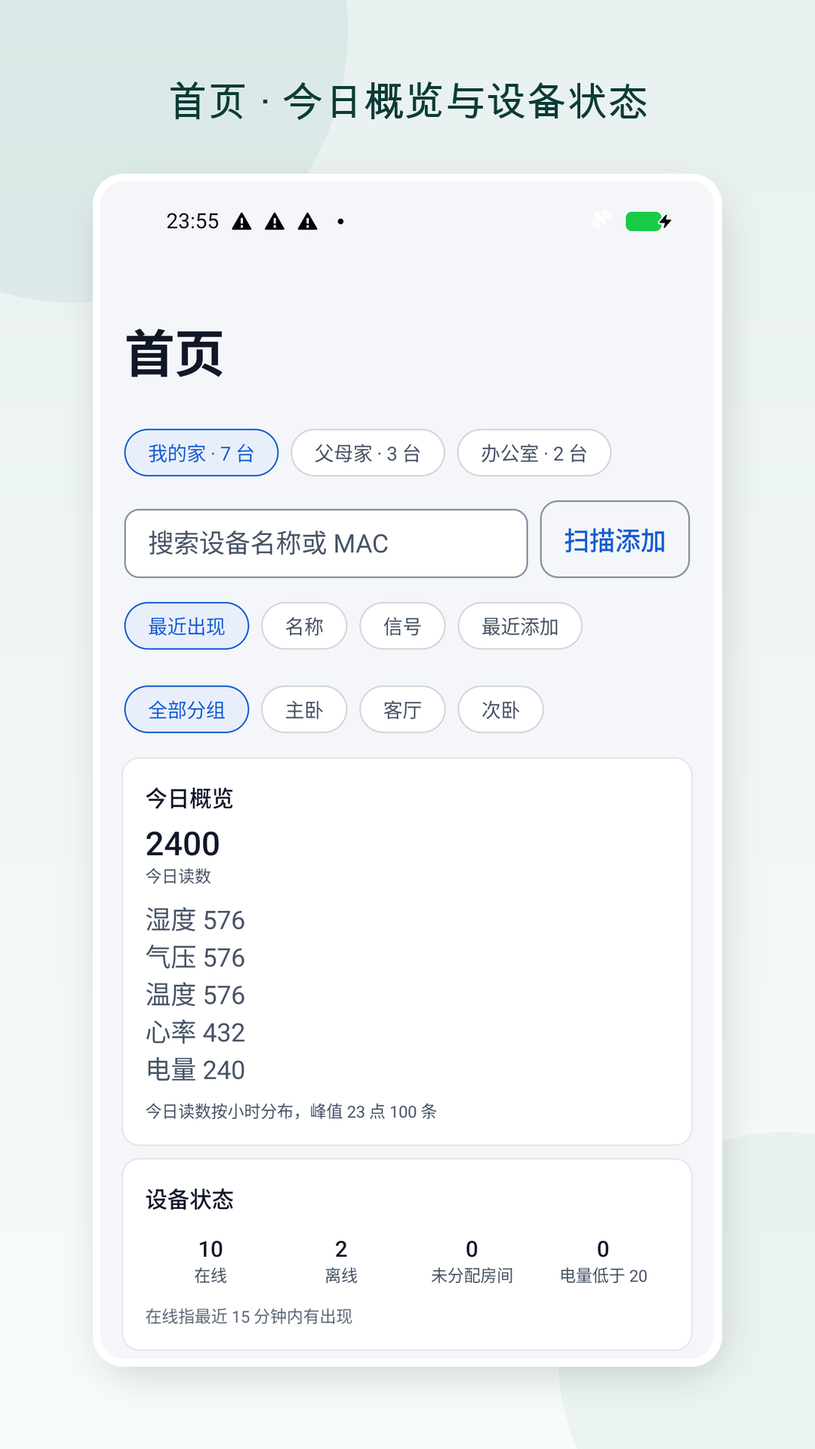
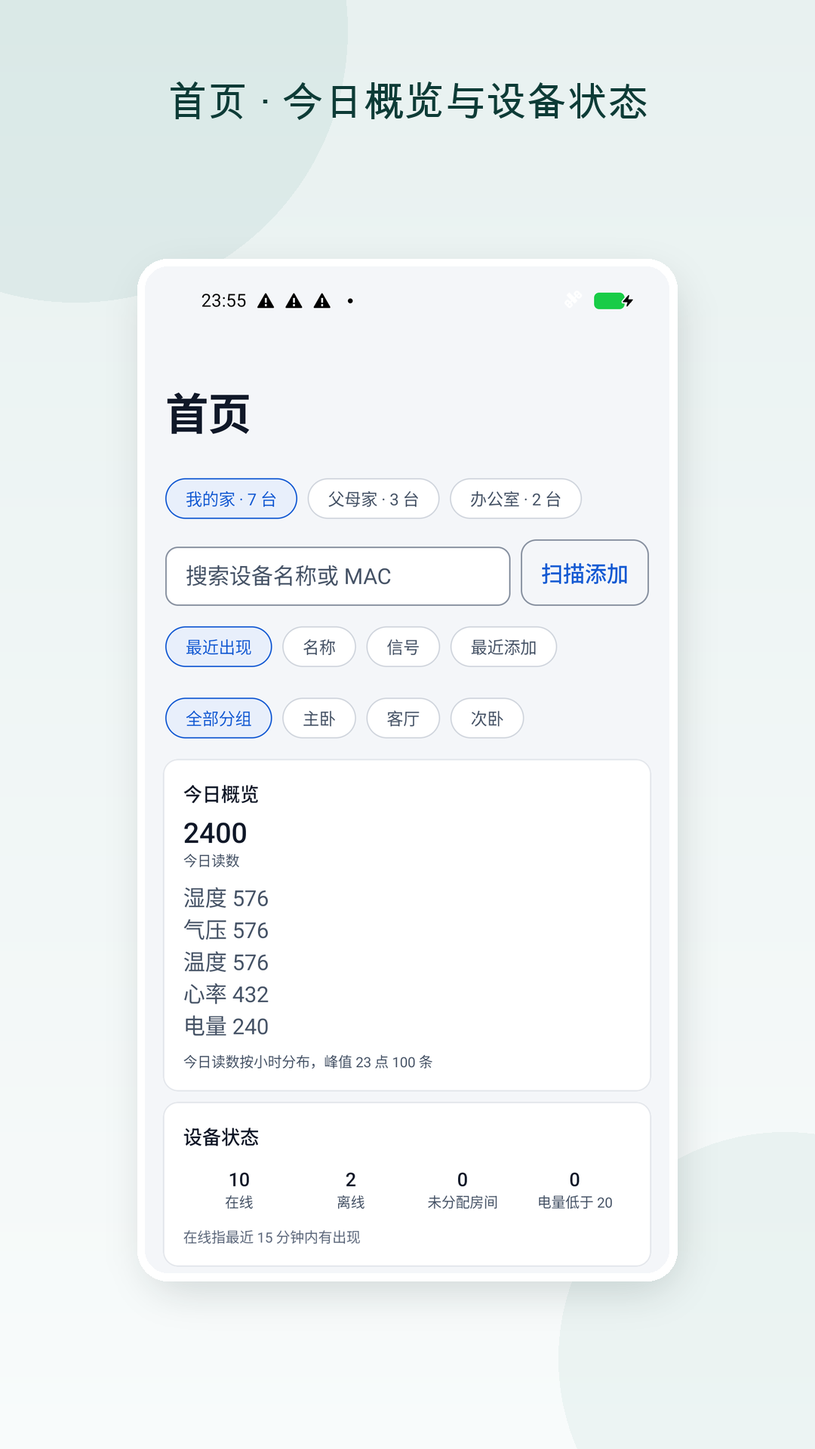
feat(store): 补齐 Data safety 申报并统一商店素材
- Data safety 按 Play 口径逐项申报健康信息、设备标识、读数、家庭/场景元数据、反馈正文、可选联系方式与反馈诊断上下文，并给出代码/后端证据
- 修正与代码不一致项：个人信息改为邮箱/手机号、补家庭/场景与反馈、后端保留期引用 PJGoIoT、仅本机数据明确不收集、推送令牌维持不收集
- 英文成员角色改为 Regular member，新增双语审计断言避免同构重复
- 六张商店截图统一设备框宽度 716px 与圆角 40/30
- 版本递增至 0.31.2（versionCode 42）

diff --git a/app/src/test/java/com/platojobs/pkotlinapp/ui/BilingualAuditTest.kt b/app/src/test/java/com/platojobs/pkotlinapp/ui/BilingualAuditTest.kt
@@ -4,6 +4,7 @@ import java.io.File
 import javax.xml.parsers.DocumentBuilderFactory
 import org.junit.Assert.assertEquals
 import org.junit.Assert.assertFalse
+import org.junit.Assert.assertNotEquals
 import org.junit.Assert.assertTrue
 import org.junit.Test
 import org.w3c.dom.Element
@@ -113,6 +114,23 @@ class BilingualAuditTest {
         val text = file.readText().lowercase()
         assertFalse("英文资源不得出现 pairing code", text.contains("pairing code"))
         assertTrue("英文资源缺少 Transfer Code", file.readText().contains("Transfer Code"))
+    }
+
+    @Test
+    fun `家庭普通成员文案不与序号同构重复`() {
+        val (zhStrings, _) = readStrings(File(resDir, "values/strings.xml"), skipUntranslatable = true)
+        val (enStrings, _) = readStrings(File(resDir, "values-en/strings.xml"), skipUntranslatable = false)
+
+        assertEquals("普通成员", zhStrings.getValue("household_role_member").text)
+        assertEquals("Regular member", enStrings.getValue("household_role_member").text)
+
+        // 成员行渲染为「序号 · 角色」；去掉 %1$d 后若与角色词相同，会出现「Member 2 · Member」同构重复。
+        listOf("values/strings.xml", "values-en/strings.xml").forEach { path ->
+            val strings = if (path.startsWith("values-en")) enStrings else zhStrings
+            val ordinal = strings.getValue("household_member_ordinal").text.replace("%1\$d", "").trim()
+            val role = strings.getValue("household_role_member").text
+            assertNotEquals("$path 的成员序号与角色重复：$role", role, ordinal)
+        }
     }
 
     @Test

diff --git a/scripts/make-store-screenshots.py b/scripts/make-store-screenshots.py
@@ -21,6 +21,11 @@ OUT = SRC / "play"
 W, H = 1080, 1920
 CAPTION_FONT = "/System/Library/Fonts/Supplemental/Arial Unicode.ttf"
 
+# 六张图的设备框统一宽度：以 1080 宽源截图缩放到 695px，外框再加 10px 白边；
+# 圆角固定为外框 40px / 屏幕 30px，避免 03/04/05 裁短后与 02/06 宽度不一致。
+FRAME_WIDTH = 695
+FRAME_MAX_HEIGHT = 1560
+
 # (源截图, 输出文件名, 文案, 底部裁剪高度)。文案只写该截图里实际可见的元素：
 # home 只有今日概览与设备状态（无设备卡片）；device_detail 只有曲线与汇总（无阈值告警）；
 # products 只有设备类型目录（无 GATT 服务表）；profile_household 只有家庭与成员行（无房间行）。
@@ -72,7 +77,9 @@ def compose(src: Path, caption: str, crop_bottom=None) -> Image.Image:
     shot = Image.open(src).convert("RGB")
     if crop_bottom is not None:
         shot = shot.crop((0, 0, shot.width, crop_bottom))
-    scale = min(1320 / shot.width, 1560 / shot.height)
+    scale = FRAME_WIDTH / shot.width
+    if round(shot.height * scale) > FRAME_MAX_HEIGHT:
+        scale = FRAME_MAX_HEIGHT / shot.height
     size = (round(shot.width * scale), round(shot.height * scale))
     shot = shot.resize(size, Image.LANCZOS)
 

diff --git a/docs/data-safety.md b/docs/data-safety.md
@@ -1,71 +1,116 @@
-# Google Play Data safety 对照（v0.30.0）
+# Google Play Data safety 对照（v0.31.2）
 
-按 Play Console「Data safety」表单逐项对照本项目**实际实现**。每一行都给出代码/接口证据；未实现的能力不申报。
+按 Play Console「Data safety」表单逐项对照本项目**实际实现**。每一行都给出客户端与服务端代码证据；
+未实现的能力不申报，实际不存在的数据类型也不申报。
 
-## 1. 数据收集与共享总表
+> **口径**：Play 的「收集」指数据离开用户设备。只写在本机 Room / SharedPreferences、从未上传的数据
+> 不算收集，统一列在 §1.2。服务端为本项目自建后端（`../PJGoIoT`），不属于第三方接收方；
+> 同一家庭的成员通过该后端读取共享设备与场景，属于应用功能内的用户间共享，不是向第三方共享。
 
-| Play 数据类别 | 具体数据 | 是否收集 | 是否共享给第三方 | 用途 | 是否可选 | 传输加密 | 可删除 | 证据 |
-| --- | --- | --- | --- | --- | --- | --- | --- | --- |
-| Health and fitness → Health info | 心率读数（仅当设备上报 `0x2A37`） | 是 | 否 | 应用功能（展示、历史曲线、同步） | 设备支持才产生 | 是（生产 HTTPS） | 是（注销/清数据） | `data/local/Entities.kt`、`domain/reading/ReadingModels.kt`、`data/remote/SyncApi.kt` |
-| Device or other IDs | 蓝牙 MAC、广播名、安装 UUID（`clientId`）、匿名 `userId` | 是 | 否 | 应用功能（设备管理、账号同步、鉴权） | 同步功能需要；纯本地模式可不用网络 | 是 | 是 | `SyncApi.kt`、`SyncPrefs.kt`、`RemoteSyncDataSource.kt` |
-| App activity → Other actions（映射说明见 §3） | BLE 传感器读数（温度/湿度/电量/CO2/气压/其他）、数值、单位、记录时间戳、RSSI 扫描记录 | 是 | 否 | 应用功能（实时读数、历史曲线、汇总、规则判断、同步） | 设备连接后才产生 | 是 | 是 | `Entities.kt`、`ReadingRepositoryImpl.kt`、`SyncApi.kt` |
-| App info and performance → Crash logs / Diagnostics | 无 | 否 | 否 | — | — | — | — | 无 Crashlytics/Sentry/Firebase；错误仅 `Log.w/i` 与 `SyncPrefs.lastError` |
-| Location → Approximate/Precise location | 无 | 否 | 否 | — | — | — | — | 无 `LocationManager`/FusedLocation；`ACCESS_FINE_LOCATION` 仅 `maxSdkVersion=30` 用于 BLE 扫描限制 |
-| Personal info | 无邮箱、手机号、姓名、密码 | 否 | 否 | — | — | — | — | 匿名 `POST /auth/anonymous`，无登录表单 |
-| Financial info | 无 | 否 | 否 | — | — | — | — | 市场页无购物车/订单/支付 |
-| Messages / Contacts / Calendar / Photos / Videos / Audio / Files / Web browsing | 无 | 否 | 否 | — | — | — | — | Manifest 无对应权限；无相关 API 调用 |
-| Advertising ID | 无 | 否 | 否 | — | — | — | — | 依赖列表无广告 SDK；无 `AdvertisingIdClient` |
-| Push notification token | 推送令牌（Room v22 预留 `push_devices`） | 否（本版本未接入 FCM，不产生 token） | 否 | — | — | — | — | `data/push/UnavailablePushTokenProvider.kt` |
+## 1. 数据收集与共享
 
-**共享结论**：数据只发送到本项目自建后端，用于匿名账号同步与恢复；无第三方广告、分析、推送或社交接收方。用户主动导出并分享文件时，接收方由用户在系统分享面板中选择，属于用户主动行为。
+### 1.1 已收集的数据类型
 
-## 2. 安全实践
+| Play 类别 | 具体字段 | 本地表 | 上报接口 | 收集 | 共享 | 传输加密 | 可要求删除 | 用途 | 是否可选 | 代码证据 |
+| --- | --- | --- | --- | --- | --- | --- | --- | --- | --- | --- |
+| 健康与健身 → 健康信息 | 心率指标值、单位、记录时间戳（`metric = heart_rate`） | `readings` | `POST /sync/push`（`readings`） | 是（设备上报 `0x2A37` 且启用同步） | 否 | 是（生产 HTTPS） | 是（注销账号；服务端 90 天清理） | 应用功能 | 设备支持才产生；不联网可只留本机 | `domain/reading/ReadingModels.kt`、`data/sync/RemoteSyncDataSource.kt` |
+| 设备或其他 ID | 蓝牙 MAC、规范化 `externalId`、广播名 `advertisedName`、安装 UUID `clientId`、匿名 `userId`、匹配到的 `deviceType`（型号标识） | `devices`、`SyncPrefs` | `POST /sync/push`（`devices`）、`POST /auth/anonymous` | 是（联网同步时） | 否 | 是 | 是（注销账号删除 `user_devices`/`tokens`/`users`，本机清表） | 应用功能（设备管理、匿名账号同步、鉴权） | 同步需要匿名账号；不联网可纯本地使用 | `data/remote/SyncApi.kt`（`PushDeviceDto`）、`RemoteSyncDataSource.toPushDto()`、`data/sync/SyncPrefs.kt` |
+| 应用活动 → 应用内其他操作（读数与扫描信号） | 温度/湿度/电量/CO2/气压/其他指标值、单位、记录时间戳、RSSI、扫描记录时间 | `readings`、`devices.lastRssi/lastSeenTimestamp` | `POST /sync/push`（`readings`、`scanRecords`） | 是 | 否 | 是 | 是（注销账号；服务端读数 90 天清理，本机 synced 记录 7 天清理） | 应用功能（实时展示、历史曲线、规则判断、同步） | 连接设备后才产生 | `data/remote/SyncApi.kt`（`PushReadingDto`）、`domain/reading/ReadingModels.kt` |
+| 应用活动 → 应用内其他操作（家庭与场景元数据） | 家庭名称、成员关系与角色、房间名称/排序、设备别名/分组/房间归属、场景名称/启用状态/冷却秒数/触发条件/动作列表（含目标设备 MAC、静音时长、通知文案） | `households`、`rooms`、`devices`、`scenes`、`scene_actions` | `GET/POST/PATCH/DELETE /households…`、`/households/{id}/members`、`/rooms`、`PATCH /my/devices/{platform}/{externalId}`、`/scenes` | 是（使用家庭/场景并联网时） | 否（同一家庭成员可读取共享数据，属应用功能内共享） | 是 | 是（删除家庭/场景、退出家庭、注销账号；家庭所有者需先转让或移除成员才能注销） | 应用功能 | 不创建家庭/场景则不产生 | `data/household/HouseholdRepository.kt`、`data/scene/RemoteSceneDataSource.kt`、`data/remote/SyncApi.kt` |
+| 用户内容 → 其他用户生成内容 | 反馈类型 `kind`、反馈正文 `body`、提交时间与处理状态 | `feedback_drafts`（本地草稿） | `POST /feedback` | 是（用户主动提交） | 否 | 是 | 是（注销账号；列表/详情接口不返回 contact/diagnostics） | 开发者通讯（处理用户反馈） | 用户主动提交才产生 | `data/feedback/RemoteFeedbackDataSource.kt`、`domain/feedback/FeedbackModels.kt`、`data/remote/SyncApi.kt`（`FeedbackCreateRequest`） |
+| 个人信息 → 电子邮件地址 / 电话号码 | 可选联系方式 `contact`（界面明确提示「邮箱或手机号」） | `feedback_drafts.contact` | `POST /feedback`（`contact`） | 是（仅用户填写时） | 否 | 是 | 是（注销账号；反馈列表/详情不回传该字段） | 开发者通讯（进一步沟通） | 选填 | `res/values/strings.xml`（`feedback_contact_hint`）、`RemoteFeedbackDataSource.submit()` |
+| 应用信息与性能 → 诊断信息 | 反馈上下文 `platform`、`appVersion`、`buildType`、`osVersion`、`deviceModel` | 不落库，随请求即时生成 | `POST /feedback`（`context`） | 是（仅提交反馈时） | 否 | 是 | 是（注销账号） | 开发者通讯（定位反馈问题） | 随反馈提交 | `data/remote/SyncApi.kt`（`FeedbackContextDto`）、`domain/feedback/FeedbackModels.kt`（`FeedbackContext`） |
+
+**共享结论**：不向第三方出售或共享数据。同步与反馈只发送到本项目自建后端（`../PJGoIoT`）；
+无广告、分析、第三方推送或社交 SDK。用户主动导出并分享文件时，接收方由用户在系统分享面板中选择，
+属于用户主动行为，不在本表申报范围内。
+
+### 1.2 未收集的数据类型
+
+| Play 类别 | 数据/字段 | 是否收集 | 依据 |
+| --- | --- | --- | --- |
+| 设备或其他 ID → 推送通知令牌 | 平台、token、appVersion、deviceModel | **否**（本版本不产生 token、不调用 `POST /push/devices`） | `di/AppContainer.createPushTokenProvider()` 固定返回 `UnavailablePushTokenProvider`；`PushRegistrationRepository` 在 `NotConfigured` 时只写本地 `push_devices` 的 `unconfigured` 行（`token = ""`），不上报。字段与接口为未来接入保留 |
+| 位置 | 精确/粗略位置、经纬度 | 否 | 无定位 API 调用；`ACCESS_FINE_LOCATION` 仅 `maxSdkVersion=30` 满足 BLE 扫描限制，`BLUETOOTH_SCAN` 声明 `neverForLocation` |
+| 个人信息（除可选联系方式） | 姓名、地址、账号密码、生日等 | 否 | 仅匿名 `POST /auth/anonymous`，无登录表单 |
+| 财务信息 | 支付、订单、订阅 | 否 | 市场页无购物车/订单/支付 |
+| 消息、通讯录、日历、照片/视频、音频、文件、网页浏览 | — | 否 | Manifest 无对应权限；无相关 API 调用 |
+| 广告标识符 | Advertising ID | 否 | 依赖列表无广告 SDK；无 `AdvertisingIdClient` |
+| 应用信息与性能 → 崩溃日志 | Crash logs | 否 | 无 Crashlytics/Sentry/Firebase；错误只写本机 Logcat 与 `SyncPrefs.lastError` |
+| —（仅本机，不离开设备） | `scan_logs` 扫描明细（名称/MAC/RSSI/时间）、`rules` 自动化规则、`rule_events` 规则触发记录、`scene_runs` 场景执行记录、`device_type_catalog` 目录缓存、`readings.rawSnapshot`、`lastError`/Logcat | 否 | 上述表只在本机 Room/SharedPreferences 使用；同步 payload 中 `PushDeviceDto.rules` 恒为空映射，场景规则只经 `/scenes` 上传，读数只含 `id/platform/externalId/metric/value/unit/recordedAt` |
+
+## 2. 保留期与删除路径
+
+| 数据 | 本地存储 | 服务端存储 | 保留期 | 删除路径 | 依据 |
+| --- | --- | --- | --- | --- | --- |
+| 设备唯一键与元数据 | `devices`（主键 `mac`，另有 `externalId`） | `user_devices` | 直到用户移除设备、注销账号或卸载应用；服务端无定时 TTL | 应用内移除设备；注销账号删除 `user_devices` 并本机 `clearAllTables()` | `Entities.kt`、`AccountService.deleteAccount()`、`../PJGoIoT/internal/store/postgres/account.go` |
+| 读数 | `readings` | `readings` | 本机：已同步读数 7 天，未同步读数保留到同步成功；服务端：默认 90 天 | 本机定时清理 + 注销账号；服务端 `cmd/cleanup -retention-days 90` + 注销账号 | `Reading.RETENTION_DAYS = 7`、`Daos.deleteOlderThan`、`../PJGoIoT/cmd/cleanup/main.go` |
+| 家庭 / 成员关系 / 房间 / 设备归属 | `households`、`rooms`、`devices.roomId` | `households`、`household_members`、`household_rooms` | 直到删除家庭、退出家庭、移除成员或注销账号；服务端无定时 TTL | 家庭删除/退出接口；注销账号。**所有者**的家庭还有其他成员时必须先转让所有权或移除成员，否则注销被拒绝 | `HouseholdRepository.kt`、`../PJGoIoT/internal/store/postgres/account.go` |
+| 场景规则与动作 | `scenes`、`scene_actions` | `scenes`（`trigger`/`actions` 为 JSONB） | 直到删除场景或注销账号；服务端无定时 TTL | `DELETE /scenes/{sceneId}`；注销账号删除 `scenes` | `data/local/Entities.kt`、`../PJGoIoT/db/migrations/000017_scenes.up.sql`、`account.go` |
+| 反馈正文与可选联系方式 | `feedback_drafts` | `feedback`、`feedback_status_events` | 直到注销账号；服务端无定时 TTL（关闭反馈只改状态，不删除正文） | 注销账号按 `user_id` 删除反馈与状态事件 | `../PJGoIoT/db/migrations/000013_feedback.up.sql`、`account.go` |
+| 反馈诊断上下文 | 不落库 | `feedback`（`platform/app_version/build_type/os_version/device_model`） | 同上 | 同上 | `000013_feedback.up.sql`、`account.go` |
+| 推送令牌（未产生） | `push_devices`（仅 `unconfigured` 状态，`token = ""`） | `push_devices`（本版本不会写入行） | 若未来接入：服务端 inactive 设备默认 30 天清理、推送投递记录 7 天 | 注销时 `DELETE /push/devices/{deviceId}`；无 token 时无实际调用 | `../PJGoIoT/cmd/cleanup/main.go`（`PUSH_DEVICE_RETENTION_DAYS=30`、`PUSH_DELIVERY_RETENTION_DAYS=7`） |
+| 同步变更日志 / 幂等键 | — | `change_log` / `idempotency_keys` | 默认 90 天 / 7 天 | `cmd/cleanup` | `../PJGoIoT/cmd/cleanup/main.go` |
+
+**账号删除的完整动作**：应用内「我的 → 注销账号」先请求删除令牌，再调用 `DELETE /api/v1/me`；
+服务端在单个事务内删除反馈、设备、读数、场景、家庭房间/成员/家庭、令牌与用户行，
+本地清 token、游标、同步状态并执行 `database.clearAllTables()`（`AccountService.deleteAccount()`、`AppContainer.wipeLocalData`）。
+
+## 3. 安全实践
 
 | 表单问题 | 回答 | 证据/说明 |
 | --- | --- | --- |
 | 数据在传输中是否加密？ | 是（生产环境） | Release Manifest 未开启 `usesCleartextTraffic`，`targetSdk 36` 默认禁止明文；需通过 `apiBaseUrl` 注入 HTTPS 地址。Debug 仅本地联调允许明文（`app/src/debug/AndroidManifest.xml`）。 |
-| 是否提供删除数据的方式？ | 是 | 应用内「我的 → 注销账号」调用 `DELETE /api/v1/me`，成功后清 token、游标、同步状态与全部 Room 表；设备移除与清空扫描日志也可删除部分数据。 |
+| 是否提供删除数据的方式？ | 是 | 应用内注销账号（服务端 + 本机全量删除）；另可移除设备、删除场景、退出家庭、清空扫描日志。家庭所有者在有其他成员时需先转让/移除成员。 |
 | 是否已独立安全审查？ | 否 | 项目未做第三方安全审计。 |
-| 是否遵循 Families Policy？ | 不适用/否 | 不专门面向儿童，无 UGC、社交、广告或交易。 |
+| 是否遵循 Families Policy？ | 不适用/否 | 不专门面向儿童；无广告、支付或公开社交。 |
 | 是否包含广告？ | 否 | 无广告 SDK、无广告位、无广告 ID。 |
 | 是否包含应用内购买？ | 否 | 无内购、订阅、购物车、订单或支付。 |
-
-## 3. 类别映射说明与已知边界
-
-1. **传感器读数归类**：Play 表单没有独立的「BLE 传感器读数」类别。温度/湿度/电量/CO2/气压属于设备产生的应用内数据，本文件按最接近的 **App activity → Other actions** 申报；心率单独按 **Health and fitness → Health info** 申报。实际填写时如 Play Console 提供更贴切的类别，以控制台选项为准。
-2. **MAC 地址**：BLE 设备 MAC 属于设备标识符，按 **Device or other IDs** 申报；`BLUETOOTH_SCAN` 已声明 `neverForLocation`，不用于推断位置。
-3. **匿名账号 ID**：安装 UUID 与匿名 `userId` 用于同步归属与鉴权；token 存于 `EncryptedSharedPreferences`（Keystore），不写入日志。
-4. **服务端 90 天保留**：属于后端契约（README「数据保留」与同步文档），客户端无法强制执行；本仓库无后端代码，上架前需由后端确认。
-5. **未同步读数**：本机清理只删除 `syncState = synced` 且超过 7 天的读数；未同步读数会保留到同步成功，属于防止数据丢失的实现细节，隐私政策已如实说明。
-6. **位置数据**：应用不调用定位 API，不读取经纬度，不上传位置；Android 11 及以下的 `ACCESS_FINE_LOCATION` 仅用于满足系统 BLE 扫描限制。
-7. **崩溃数据**：无崩溃上报 SDK；`lastError` 与 Logcat 仅在本机，不上传，因此 Data safety 的 Crash logs / Diagnostics 填「不收集」。
-8. **推送令牌**：Room v22 新增本机 `push_devices` 表并接入注册流程，但工程没有 `google-services.json`，默认 `UnavailablePushTokenProvider` 始终返回「未配置」、不产生 token，也不会向服务端注册。只有未来接入 FCM 并拿到真实 token 后才可能上报推送令牌；当前版本 Data safety 填「不收集」。
 
 ## 4. 表单填写速查
 
 - **Does your app collect or share any of the required user data types?** 是。
 - **Is all of the user data collected by your app encrypted in transit?** 是（生产 HTTPS）。
-- **Do you provide a way for users to request that their data is deleted?** 是（应用内注销账号；另可移除设备/清空日志）。
-- **Data types**：Health info（心率）、Device or other IDs（MAC/安装 UUID/匿名账号 ID）、App activity → Other actions（传感器读数与 RSSI 记录）。
-- **Data not collected**：位置、个人身份信息、财务信息、消息、通讯录、日历、照片/视频、音频、文件、网页浏览、广告 ID、崩溃日志、诊断数据、推送令牌（未接入 FCM）。
+- **Do you provide a way for users to request that their data is deleted?** 是（应用内注销账号）。
+- **Data types（收集）**：
+  - 健康与健身 → 健康信息（心率）
+  - 设备或其他 ID（蓝牙 MAC/广播名、安装 UUID、匿名账号 ID、匹配到的 `deviceType` 型号标识）
+  - 应用活动 → 应用内其他操作（传感器读数与 RSSI、家庭/成员/房间/设备别名分组、场景规则与动作）
+  - 用户内容 → 其他用户生成内容（反馈正文）
+  - 个人信息 → 电子邮件地址 / 电话号码（反馈选填联系方式）
+  - 应用信息与性能 → 诊断信息（反馈上下文 appVersion/buildType/osVersion/deviceModel）
+- **Data not collected**：位置、姓名/地址/密码、财务信息、消息、通讯录、日历、照片/视频、音频、文件、网页浏览、广告 ID、崩溃日志、推送令牌（本版本未接入 FCM）。
 - **Data shared with third parties**：无。
-- **Data collection optional**：同步需要匿名账号；不联网时应用以纯本地模式运行（设备与读数仍可在本机查看）。
+- **Data collection optional**：同步需要匿名账号；不联网时以纯本地模式运行（设备与读数仍可在本机查看）；反馈与联系方式由用户主动提交。
+- **Purposes**：应用功能（同步与展示）、开发者通讯（反馈）。本应用无分析 SDK，不申报「分析」用途。
 - **Ads / IAP**：均无。
 
-## 5. 代码证据索引
+## 5. 申报与代码核对记录（本轮修正）
+
+| 旧申报/旧文档 | 代码事实 | 处理 |
+| --- | --- | --- |
+| `store-listing.md` §5 写「仅健康信息、设备标识与传感器读数」 | 家庭/成员/房间/场景/设备别名与分组均经 `/households…`、`/scenes` 上传；反馈正文、联系方式与诊断上下文经 `/feedback` 上传 | 已补齐三类数据，见 §1.1 |
+| 「个人信息：无」 | 反馈联系方式提示为「邮箱或手机号」，`contact` 随 `POST /feedback` 上传 | 改为申报「个人信息 → 电子邮件地址 / 电话号码」，标注选填、开发者通讯 |
+| 未列反馈正文与诊断信息 | `FeedbackCreateRequest.body` 与 `context{appVersion,buildType,osVersion,deviceModel}` 均上传；`diagnostics` 字段存在但客户端未赋值 | 申报正文（用户内容）与上下文（诊断信息）；不申报未赋值的 `diagnostics` 自由文本 |
+| 「推送令牌：否」但未解释字段 | 本地 `push_devices`、服务端 `push_devices` 与 `/push/devices` 端点存在，但 `UnavailablePushTokenProvider` 始终 `NotConfigured`，无 `google-services.json` | 维持「不收集」，并在 §1.2 列明平台/token/appVersion/deviceModel 仅在未接入时为空值，不产生上传 |
+| §3「本仓库无后端代码」 | 后端代码位于 `../PJGoIoT`，`cmd/cleanup` 与 `account.go` 可核验保留期/删除 | 替换为真实路径，见 §2、§6 |
+| 未区分仅本机数据 | `scan_logs`、`rule_events`、`scene_runs`、目录缓存、`rawSnapshot` 均不上传 | 在 §1.2 明确列为「不收集」 |
+
+## 6. 代码证据索引
 
 | 证据 | 位置 |
 | --- | --- |
 | 权限声明与 `neverForLocation`、`maxSdkVersion=30` | `app/src/main/AndroidManifest.xml` |
 | 运行时权限集合 | `app/src/main/java/com/platojobs/pkotlinapp/ui/common/BlePermissions.kt` |
-| 同步请求/响应字段 | `app/src/main/java/com/platojobs/pkotlinapp/data/remote/SyncApi.kt` |
-| 同步映射（MAC/设备/读数） | `app/src/main/java/com/platojobs/pkotlinapp/data/sync/RemoteSyncDataSource.kt` |
-| Room 实体字段 | `app/src/main/java/com/platojobs/pkotlinapp/data/local/Entities.kt` |
-| 7 天保留、仅清 synced | `domain/reading/ReadingModels.kt`、`data/repository/ReadingRepositoryImpl.kt`、`data/local/Daos.kt` |
+| 同步与反馈请求/响应字段 | `app/src/main/java/com/platojobs/pkotlinapp/data/remote/SyncApi.kt` |
+| 设备/读数/家庭/场景同步映射 | `app/src/main/java/com/platojobs/pkotlinapp/data/sync/RemoteSyncDataSource.kt`、`data/household/HouseholdRepository.kt`、`data/scene/RemoteSceneDataSource.kt` |
+| 反馈提交字段 | `app/src/main/java/com/platojobs/pkotlinapp/data/feedback/RemoteFeedbackDataSource.kt` |
+| Room 实体与保留字段 | `app/src/main/java/com/platojobs/pkotlinapp/data/local/Entities.kt` |
+| 本机读数 7 天保留、仅清 synced | `domain/reading/ReadingModels.kt`、`data/repository/ReadingRepositoryImpl.kt`、`data/local/Daos.kt` |
 | token 加密 | `data/sync/SecureTokenStore.kt` |
 | 安装 UUID | `data/sync/SyncPrefs.kt` |
-| 注销流程 | `domain/account/AccountService.kt` |
-| 导出字段与分享 | `domain/export/ReadingCsv.kt`、`domain/account/AccountExportJson.kt`、`ui/common/FileSharing.kt` |
+| 注销流程（服务端 + 本机清表） | `domain/account/AccountService.kt`、`di/AppContainer.kt`（`wipeLocalData`） |
+| 推送未配置（不产生 token） | `di/AppContainer.kt`（`createPushTokenProvider`）、`domain/push/PushTokenProvider.kt`、`data/push/PushRegistrationRepository.kt` |
 | 无广告/崩溃/分析 SDK | `app/build.gradle.kts`、`gradle/libs.versions.toml` |
-| 推送注册（未配置 FCM，不产生 token） | `data/push/UnavailablePushTokenProvider.kt`、`domain/push/PushRegistration.kt` |
-| Release 禁止明文 | `app/src/main/AndroidManifest.xml`（无 `usesCleartextTraffic`）；`app/src/debug/AndroidManifest.xml`（仅 Debug 放开） |
+| 服务端表结构 | `../PJGoIoT/db/migrations/000011_households.up.sql`、`000013_feedback.up.sql`、`000017_scenes.up.sql`、`000018_push_and_alerts.up.sql` |
+| 服务端保留期 | `../PJGoIoT/cmd/cleanup/main.go`（读数 90 天、change_log 90 天、幂等键 7 天、推送投递 7 天、inactive 推送设备 30 天） |
+| 服务端账号删除 | `../PJGoIoT/internal/store/postgres/account.go` |

diff --git a/docs/store-listing.md b/docs/store-listing.md
@@ -1,4 +1,4 @@
-# Google Play 商店上架材料（v0.31.1）
+# Google Play 商店上架材料（v0.31.2）
 
 > 状态：**材料已补齐，但尚未上传 Play Console、尚未提交审核、未上架**。
 > 本仓库的 release 签名使用**本地自签名测试证书**（`scripts/make-upload-keystore.sh` 生成），
@@ -13,7 +13,7 @@
 | --- | --- |
 | 应用名称 | `BLE 设备数据面板`（9 个字符，Play 上限 30） |
 | 包名 | `com.platojobs.pkotlinapp` |
-| 版本 | `versionCode = 41`、`versionName = 0.31.1` |
+| 版本 | `versionCode = 42`、`versionName = 0.31.2` |
 | 默认语言 | 中文（简体），另含英文 `values-en` |
 | 分类 | 工具（Tools）；次要分类建议「健康与健身」，因部分设备上报心率 |
 | 联系方式 | https://github.com/platojobs/PKotlinApp/issues |
@@ -156,40 +156,54 @@ python3 scripts/make-store-screenshots.py
 | 暴力、血腥、恐怖内容 | 无 | 界面仅有设备/读数/规则/设置 |
 | 性暗示、裸体、粗俗语言 | 无 | 无 UGC 展示 |
 | 赌博、毒品、酒精、烟草 | 无 | 无相关功能与内容 |
-| 用户生成内容 / 用户间互动 | 无 | 无评论、聊天、动态、社交入口 |
+| 用户生成内容 / 用户间互动 | 无公开 UGC 或社交互动 | 反馈仅开发者可见；家庭共享仅限家庭成员；无评论、聊天、动态、社交入口 |
 | 位置共享 | 无 | 不调用定位 API，不上传位置 |
 | 广告 | 无 | 无广告 SDK、无广告位、无广告 ID |
 | 应用内购买 | 无 | 无内购、订阅、购物车、订单、支付 |
-| 数据收集与共享 | 有（仅健康信息、设备标识与传感器读数） | 见 §6 与 `docs/data-safety.md` |
+| 数据收集与共享 | 有（健康信息、设备标识、传感器读数、家庭与场景元数据、反馈正文与可选联系方式、反馈诊断上下文） | 见 §6 与 `docs/data-safety.md` |
 
 建议分级结果：**全年龄（3+ / Everyone）**。最终以 Play Console 问卷结果为唯一准绳。
 
-## 6. Data safety 表单逐项答案（与 `docs/data-safety.md` 对齐）
+## 6. Data safety 表单逐项答案（与 `docs/data-safety.md` 完全一致）
 
-| Play 表单问题 | 答案 | 与 `data-safety.md` 对应 |
-| --- | --- | --- |
-| 应用是否收集或共享必需用户数据类型？ | **是** | §1 数据收集与共享总表 |
-| 所有收集数据是否传输加密？ | **是（生产 HTTPS）** | §2 安全实践 |
-| 是否提供数据删除方式？ | **是（应用内注销账号；另可移除设备/清空日志）** | §2 |
-| Health and fitness → Health info | **收集（心率）**；不共享；用途「应用功能」；可选（设备支持才产生） | §1 第 1 行 |
-| Device or other IDs | **收集**（蓝牙 MAC、广播名、安装 UUID、匿名 userId）；不共享；用途「应用功能」 | §1 第 2 行 |
-| App activity → Other actions | **收集**（传感器读数、数值、单位、时间戳、RSSI 扫描记录）；不共享；用途「应用功能」 | §1 第 3 行 |
-| Location（精确/粗略） | **不收集**；`ACCESS_FINE_LOCATION` 仅 `maxSdkVersion=30` 用于 BLE 扫描限制 | §1 第 5 行 |
-| Personal info | **不收集**（匿名账号，无邮箱/手机号/姓名/密码） | §1 第 6 行 |
-| Financial info | **不收集** | §1 第 7 行 |
-| Messages / Contacts / Calendar / Photos / Files / Web browsing | **不收集** | §1 第 8 行 |
-| Advertising ID | **不收集** | §1 第 9 行 |
-| Crash logs / Diagnostics | **不收集**（无 Crashlytics/Sentry/Firebase；错误仅本地 Log 与 `SyncPrefs.lastError`） | §1 第 4 行 |
-| 推送通知令牌 | **不收集**（本版本无 `google-services.json`，`UnavailablePushTokenProvider` 不产生 token，注册流程停在「未配置」） | §3 第 8 条 |
-| 数据共享给第三方 | **无** | §1 共享结论 |
-| 数据收集是否可选 | **同步需要匿名账号；不联网时以纯本地模式运行** | §4 |
-| 是否独立安全审查 | **否** | §2 |
-| 是否遵循 Families Policy | **否（不面向儿童）** | §2 |
-| 是否包含广告 / 内购 | **均否** | §2 |
+| Play 表单问题 | 答案 |
+| --- | --- |
+| 应用是否收集或共享必需用户数据类型？ | **是** |
+| 所有收集数据是否传输加密？ | **是（生产 HTTPS）** |
+| 是否提供数据删除方式？ | **是（应用内注销账号；另可移除设备、删除场景、退出家庭、清空日志）** |
+| 数据共享给第三方 | **无**（只发送到本项目自建后端；家庭成员间共享设备/场景属应用功能内共享） |
+| 数据收集是否可选 | **同步需要匿名账号；不联网时以纯本地模式运行；反馈与联系方式由用户主动提交** |
+| 是否独立安全审查 | **否** |
+| 是否遵循 Families Policy | **否（不面向儿童）** |
+| 是否包含广告 / 内购 | **均否** |
 
-填写时以 Play Console 实际选项为准；若控制台提供更贴切的类别（例如把传感器读数归到
-「App activity → Other in-app actions」之外的选项），按控制台口径选择，并同步更新
-`docs/data-safety.md`。
+### 6.1 已收集的数据类型
+
+| Play 类型 | 具体数据 | 收集 | 共享 | 加密 | 可要求删除 | 用途 | 可选 |
+| --- | --- | --- | --- | --- | --- | --- | --- |
+| 健康与健身 → 健康信息 | 心率值、单位、时间戳 | 是 | 否 | 是 | 是 | 应用功能 | 设备上报 `0x2A37` 才产生 |
+| 设备或其他 ID | 蓝牙 MAC、广播名、安装 UUID、匿名账号 ID、匹配到的 `deviceType` 型号标识 | 是 | 否 | 是 | 是 | 应用功能 | 不联网可纯本地 |
+| 应用活动 → 应用内其他操作 | 传感器读数（温度/湿度/电量/CO2/气压/其他）、RSSI 与扫描记录时间 | 是 | 否 | 是 | 是 | 应用功能 | 连接设备后才产生 |
+| 应用活动 → 应用内其他操作 | 家庭名称、成员关系与角色、房间名称/排序、设备别名/分组/房间归属、场景规则与动作（含目标设备 MAC、静音时长、通知文案） | 是 | 否 | 是 | 是 | 应用功能 | 使用家庭/场景并联网时产生 |
+| 用户内容 → 其他用户生成内容 | 反馈类型、反馈正文、提交时间与处理状态 | 是 | 否 | 是 | 是 | 开发者通讯 | 用户主动提交 |
+| 个人信息 → 电子邮件地址 / 电话号码 | 反馈中的可选联系方式 | 是（仅填写时） | 否 | 是 | 是 | 开发者通讯 | 选填 |
+| 应用信息与性能 → 诊断信息 | 反馈上下文 `appVersion`/`buildType`/`osVersion`/`deviceModel` | 是（仅提交反馈时） | 否 | 是 | 是 | 开发者通讯 | 随反馈提交 |
+
+### 6.2 未收集的数据类型
+
+| Play 类型 | 数据 | 是否收集 | 说明 |
+| --- | --- | --- | --- |
+| 设备或其他 ID → 推送通知令牌 | 平台、token、appVersion、deviceModel | **否** | `UnavailablePushTokenProvider` 始终 `NotConfigured`，无 `google-services.json`；本地只写 `unconfigured` 空 token 行，不调用 `/push/devices` |
+| 位置 | 精确/粗略位置 | 否 | 不调用定位 API；`ACCESS_FINE_LOCATION` 仅 `maxSdkVersion=30` 用于 BLE 扫描限制 |
+| 个人信息（除可选联系方式） | 姓名、地址、账号密码 | 否 | 仅匿名登录，无登录表单 |
+| 财务信息 | 支付、订单、订阅 | 否 | 无内购 |
+| 消息 / 通讯录 / 日历 / 照片 / 视频 / 音频 / 文件 / 网页浏览 | — | 否 | 无对应权限与 API |
+| 广告标识符 | Advertising ID | 否 | 无广告 SDK |
+| 应用信息与性能 → 崩溃日志 | Crash logs | 否 | 无崩溃上报 SDK；错误只留本机 |
+| 仅本机数据（不离开设备） | 扫描日志明细、自动化规则、规则触发记录、场景执行记录、目录缓存、`rawSnapshot`、`lastError`/Logcat | 否 | 只在本机 Room/SharedPreferences 使用 |
+
+填写时以 Play Console 实际选项为准；若控制台提供更贴切的类别，按控制台口径选择，并同步更新
+`docs/data-safety.md`，保持两份文档逐项一致。
 
 ## 7. 发布产物与签名（详细验证见 `docs/release-build.md`）
 

diff --git a/docs/acceptance.md b/docs/acceptance.md
@@ -1,9 +1,9 @@
-# 真机验收清单（v0.31.1）
+# 真机验收清单（v0.31.2）
 
 本清单用于「执行人不在开发现场」时也能照着做完验收。每项都写明**操作步骤、预期现象、失败判定**。
 所有结果请记录到文末的「验收记录表」；未实际执行的项不要填 PASS。
 
-- 适用版本：`versionName = 0.31.1`（`versionCode = 41`）
+- 适用版本：`versionName = 0.31.2`（`versionCode = 42`）
 - 应用包名：`com.platojobs.pkotlinapp`
 - 主界面：`com.platojobs.pkotlinapp.ui.MainActivity`
 - 设备详情：`com.platojobs.pkotlinapp.ui.detail.DeviceDetailActivity`
@@ -55,7 +55,7 @@ adb install -r app/build/outputs/apk/debug/app-debug.apk
 adb shell dumpsys package com.platojobs.pkotlinapp | grep -E "versionName|versionCode"
 ```
 
-预期：`versionName=0.31.1`、`versionCode=41`。
+预期：`versionName=0.31.2`、`versionCode=42`。
 
 ---
 
